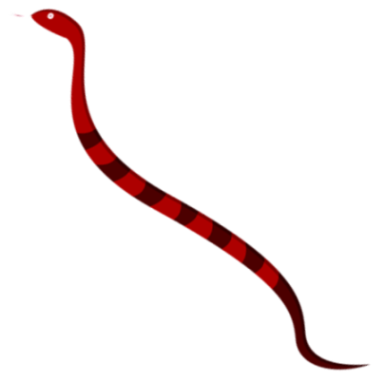
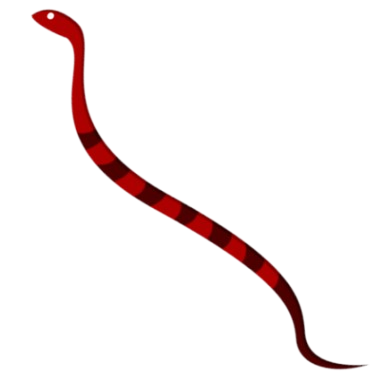
Parital commit

diff --git a/src/Components/Block.jsx b/src/Components/Block.jsx
@@ -2,22 +2,30 @@ import React, { useState } from 'react';
 import { snakes, ladders } from '../Constants/MapConstants';
 import ladder from '../Assets/Ladder1.png';
 import './Component.css';
+import Pawn from './Pawn';
 const Block = (props) => {
-    const { blockId } = props;
+    const { blockId, start } = props;
     const [block, setBlock] = useState({
         blockId: blockId,
         isSnake: snakes[blockId] ? snakes[blockId] : false,
         isLadder: ladders[blockId] ? ladders[blockId] : false,
-        noOfUsers: 0
+        noOfUsers: 0,
+        pawnPresent: false
     });
+    const changePawn = () => {
+        setBlock((prev) => {
+            return { ...prev, pawnPresent: true }
+        });
+    }
     return (
-        <div id={block.blockId} className='block-head'>
+        <div id={'block-id-names' + block.blockId} className='block-head' onClick={changePawn}>
             <p className='block-number'>{block.blockId}</p>
             {block.isSnake && <img className={'snake-id-' + block.isSnake.start} src={block.isSnake.snake} alt='snake'></img>}
             {block.isLadder && <img className={'block-id-' + block.blockId} src={ladder} alt='ladder'></img>}
             <span className='no-of-users-count'>
                 {block.noOfUsers}
             </span>
+            {(block.pawnPresent || (start === true && block.blockId === 1)) && <Pawn block={block} setBlock={setBlock} />}
         </div>
     )
 }

diff --git a/src/Components/Component.css b/src/Components/Component.css
@@ -9,6 +9,10 @@
 
 .block-number {
     z-index: 100;
+    position: absolute;
+    left: 50%;
+    top: 50%;
+    transform: translate(-50%, -50%);
 }
 
 .block-head {
@@ -30,6 +34,7 @@
     position: absolute;
     left: 50%;
     z-index: 99;
+    pointer-events: none;
 }
 
 .snake-id-26 {
@@ -54,18 +59,16 @@
 }
 
 .snake-id-75 {
-    height: 6em;
-    transform: translate(-25%, 400%) rotate(60deg);
-    width: 72dvw;
+    transform: translate(-18%, 51%) rotate(-62deg);
+    width: 45dvw;
     z-index: 93 !important;
 }
 
 .snake-id-99 {
     z-index: 94 !important;
     position: absolute;
-    height: 6em;
-    width: 88dvw;
-    transform: translate(-38%, 538%) rotate(76deg);
+    width: 52dvw;
+    transform: translate(-35%, 57%) rotate(-48deg);
 }
 
 .snake-id-59 {
@@ -109,4 +112,22 @@
     bottom: 5%;
     right: 5%;
     color: black;
+}
+
+.token-block {
+    position: relative;
+    width: inherit;
+    height: inherit;
+    transition: cubic-bezier(0.165, 0.84, 0.44, 1);
+}
+
+.token-block img {
+    height: 90%;
+    object-fit: contain;
+    width: 100%;
+    position: absolute;
+    left: 50%;
+    top: 50%;
+    transform: translate(-50%, -50%);
+    z-index: 100;
 }

diff --git a/src/Components/Pawn.jsx b/src/Components/Pawn.jsx
@@ -1,0 +1,38 @@
+import React, { useEffect, useRef, useState } from 'react';
+import human1 from '../Assets/Human1.png';
+import human2 from '../Assets/Human2.png';
+import human3 from '../Assets/Human3.png';
+import human4 from '../Assets/Human4.png';
+import { useInView } from 'framer-motion';
+
+const pawnArray = [human1, human2, human3, human4];
+const randomPawn = pawnArray[Math.floor(Math.random() * 4)];
+
+const Pawn = (props) => {
+    const pawnRef = useRef();
+    const { setBlock, state } = props;
+    const isInView = useInView(pawnRef, {
+        once: true
+    })
+    const [pawn, setPawn] = useState({
+        blockId: 1,
+        questions: [],
+        diceRolls: 0,
+        bonus: 0,
+    });
+    return (
+        <div
+            ref={pawnRef}
+            style={{
+                transform: isInView ? "translateY(0px)" : "translateY(10px)",
+                scale: isInView ? 1 : 0.6,
+                opacity: isInView ? 1 : 0,
+                transition: "all 0.7s cubic-bezier(0.17, 0.55, 0.55, 1) 0.4s"
+            }}
+            className='token-block'>
+            <img src={randomPawn} alt="your-human" />
+        </div>
+    )
+}
+
+export default Pawn

diff --git a/src/Components/Map/Map.jsx b/src/Components/Map/Map.jsx
@@ -1,14 +1,15 @@
 import React from 'react';
 import './Map.css';
-import { snakes,ladders } from '../../Constants/MapConstants';
+import { snakes, ladders } from '../../Constants/MapConstants';
 import Timer from '../../Utilities/Timer';
 import Row from '../Row';
-const Map = () => {
+const Map = (props) => {
+  const { start } = props;
   const blockNumbers = [...Array(10).keys()];
   return (
     <div className='map-head'>
       {blockNumbers.map((key, ind) => {
-        return <Row key={key} rowId={ind + 1} />
+        return <Row start={start} key={key} rowId={ind + 1} />
       })}
     </div>
   )

diff --git a/src/Components/Row.jsx b/src/Components/Row.jsx
@@ -1,13 +1,14 @@
 import React from 'react'
 import Block from './Block';
+import Pawn from './Pawn';
 
 const Row = (props) => {
-    const { rowId } = props;
+    const { rowId, start } = props;
     const rowConstants = [...Array(10).keys()]
     return (
         <div className='row-head'>
             {rowConstants.map((key, ind) => {
-                return <Block rowId={rowId} key={key} blockId={(rowId - 1) * 10 + ind + 1} />
+                return <Block start={start} rowId={rowId} key={key} blockId={(rowId - 1) * 10 + ind + 1} />
             })}
         </div>
     )

diff --git a/src/Pages/MapPage/MapPage.jsx b/src/Pages/MapPage/MapPage.jsx
@@ -1,10 +1,15 @@
-import React from 'react'
+import React, { useState } from 'react'
 import Map from '../../Components/Map/Map'
 import "./MapPage.css";
 export default function MapPage() {
+  const [start, setStart] = useState(false);
+  const changeStart = () => {
+    setStart(true);
+  }
   return (
     <div className='map-page-container'>
-      <Map />
+      <Map start={start} />
+      <button style={{ zIndex: 1000 }} onClick={changeStart}>Start</button>
     </div>
   )
 }

diff --git a/src/Constants/MapConstants.jsx b/src/Constants/MapConstants.jsx
@@ -1,6 +1,6 @@
 import s1 from '../Assets/Snake6.png';
 import s2 from '../Assets/Snake7.png';
-import s3 from '../Assets/Snake2.png';
+import s3 from '../Assets/Snake1.png';
 import s4 from '../Assets/Snake5.png';
 const snakes = {
     99: {
